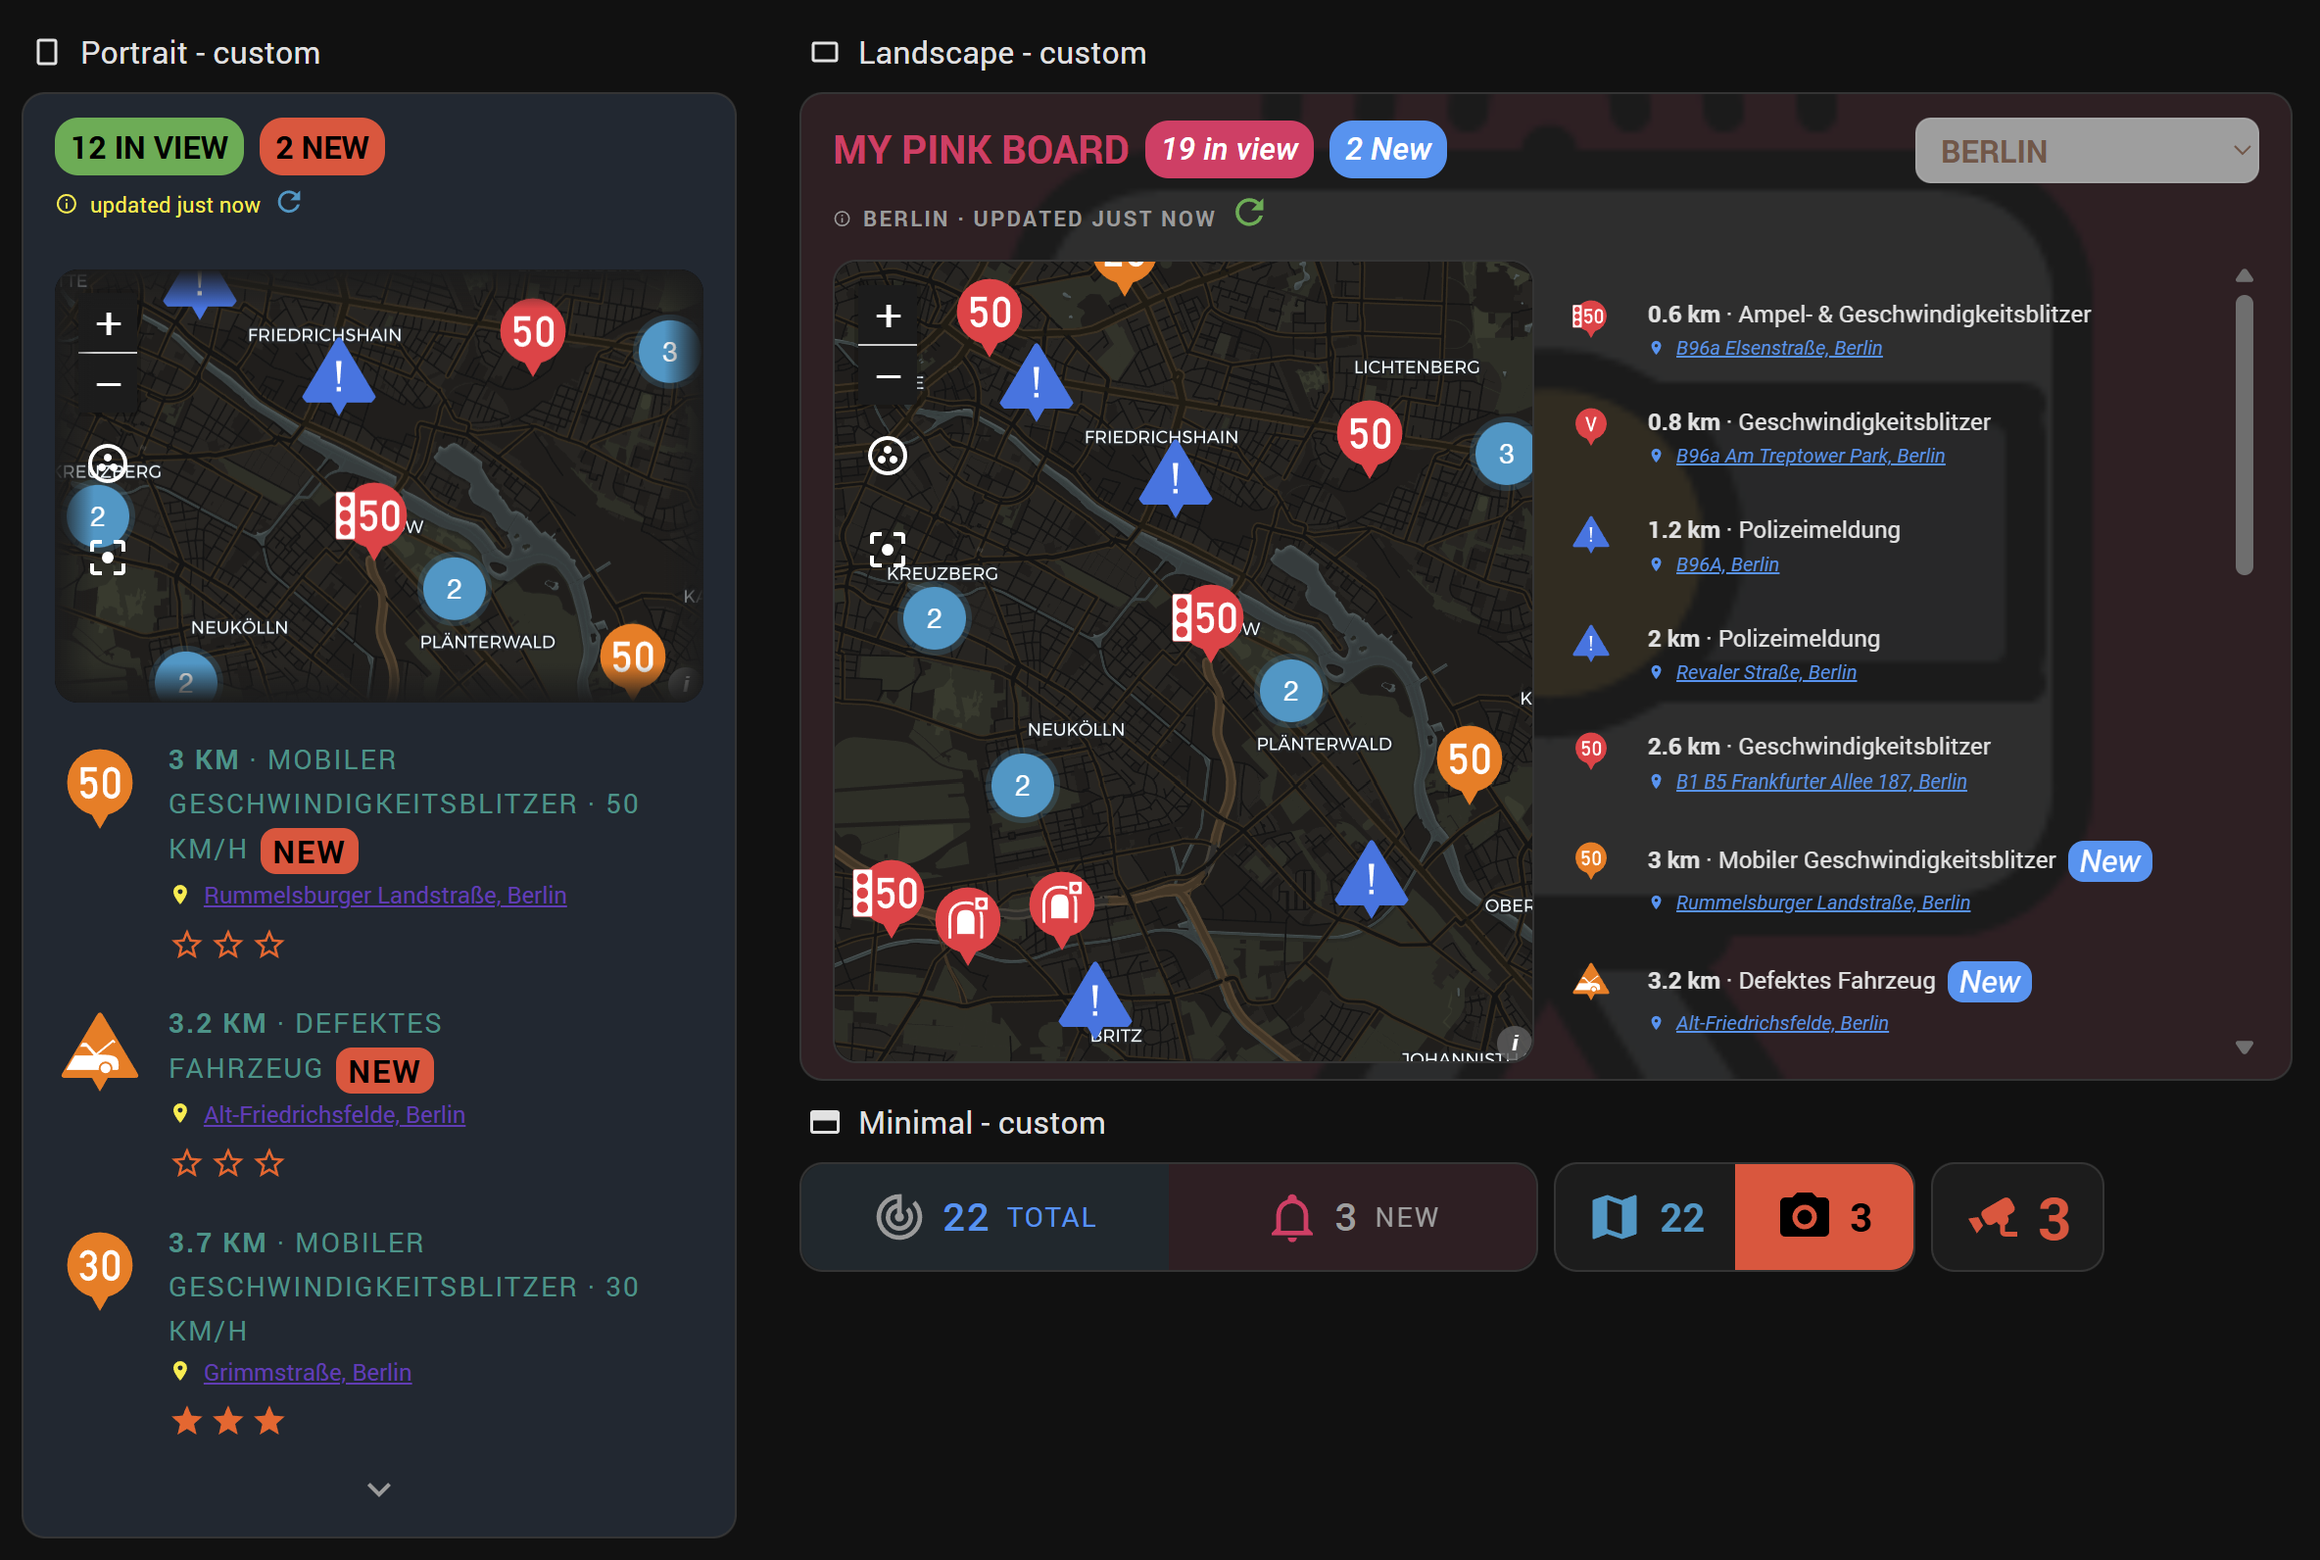
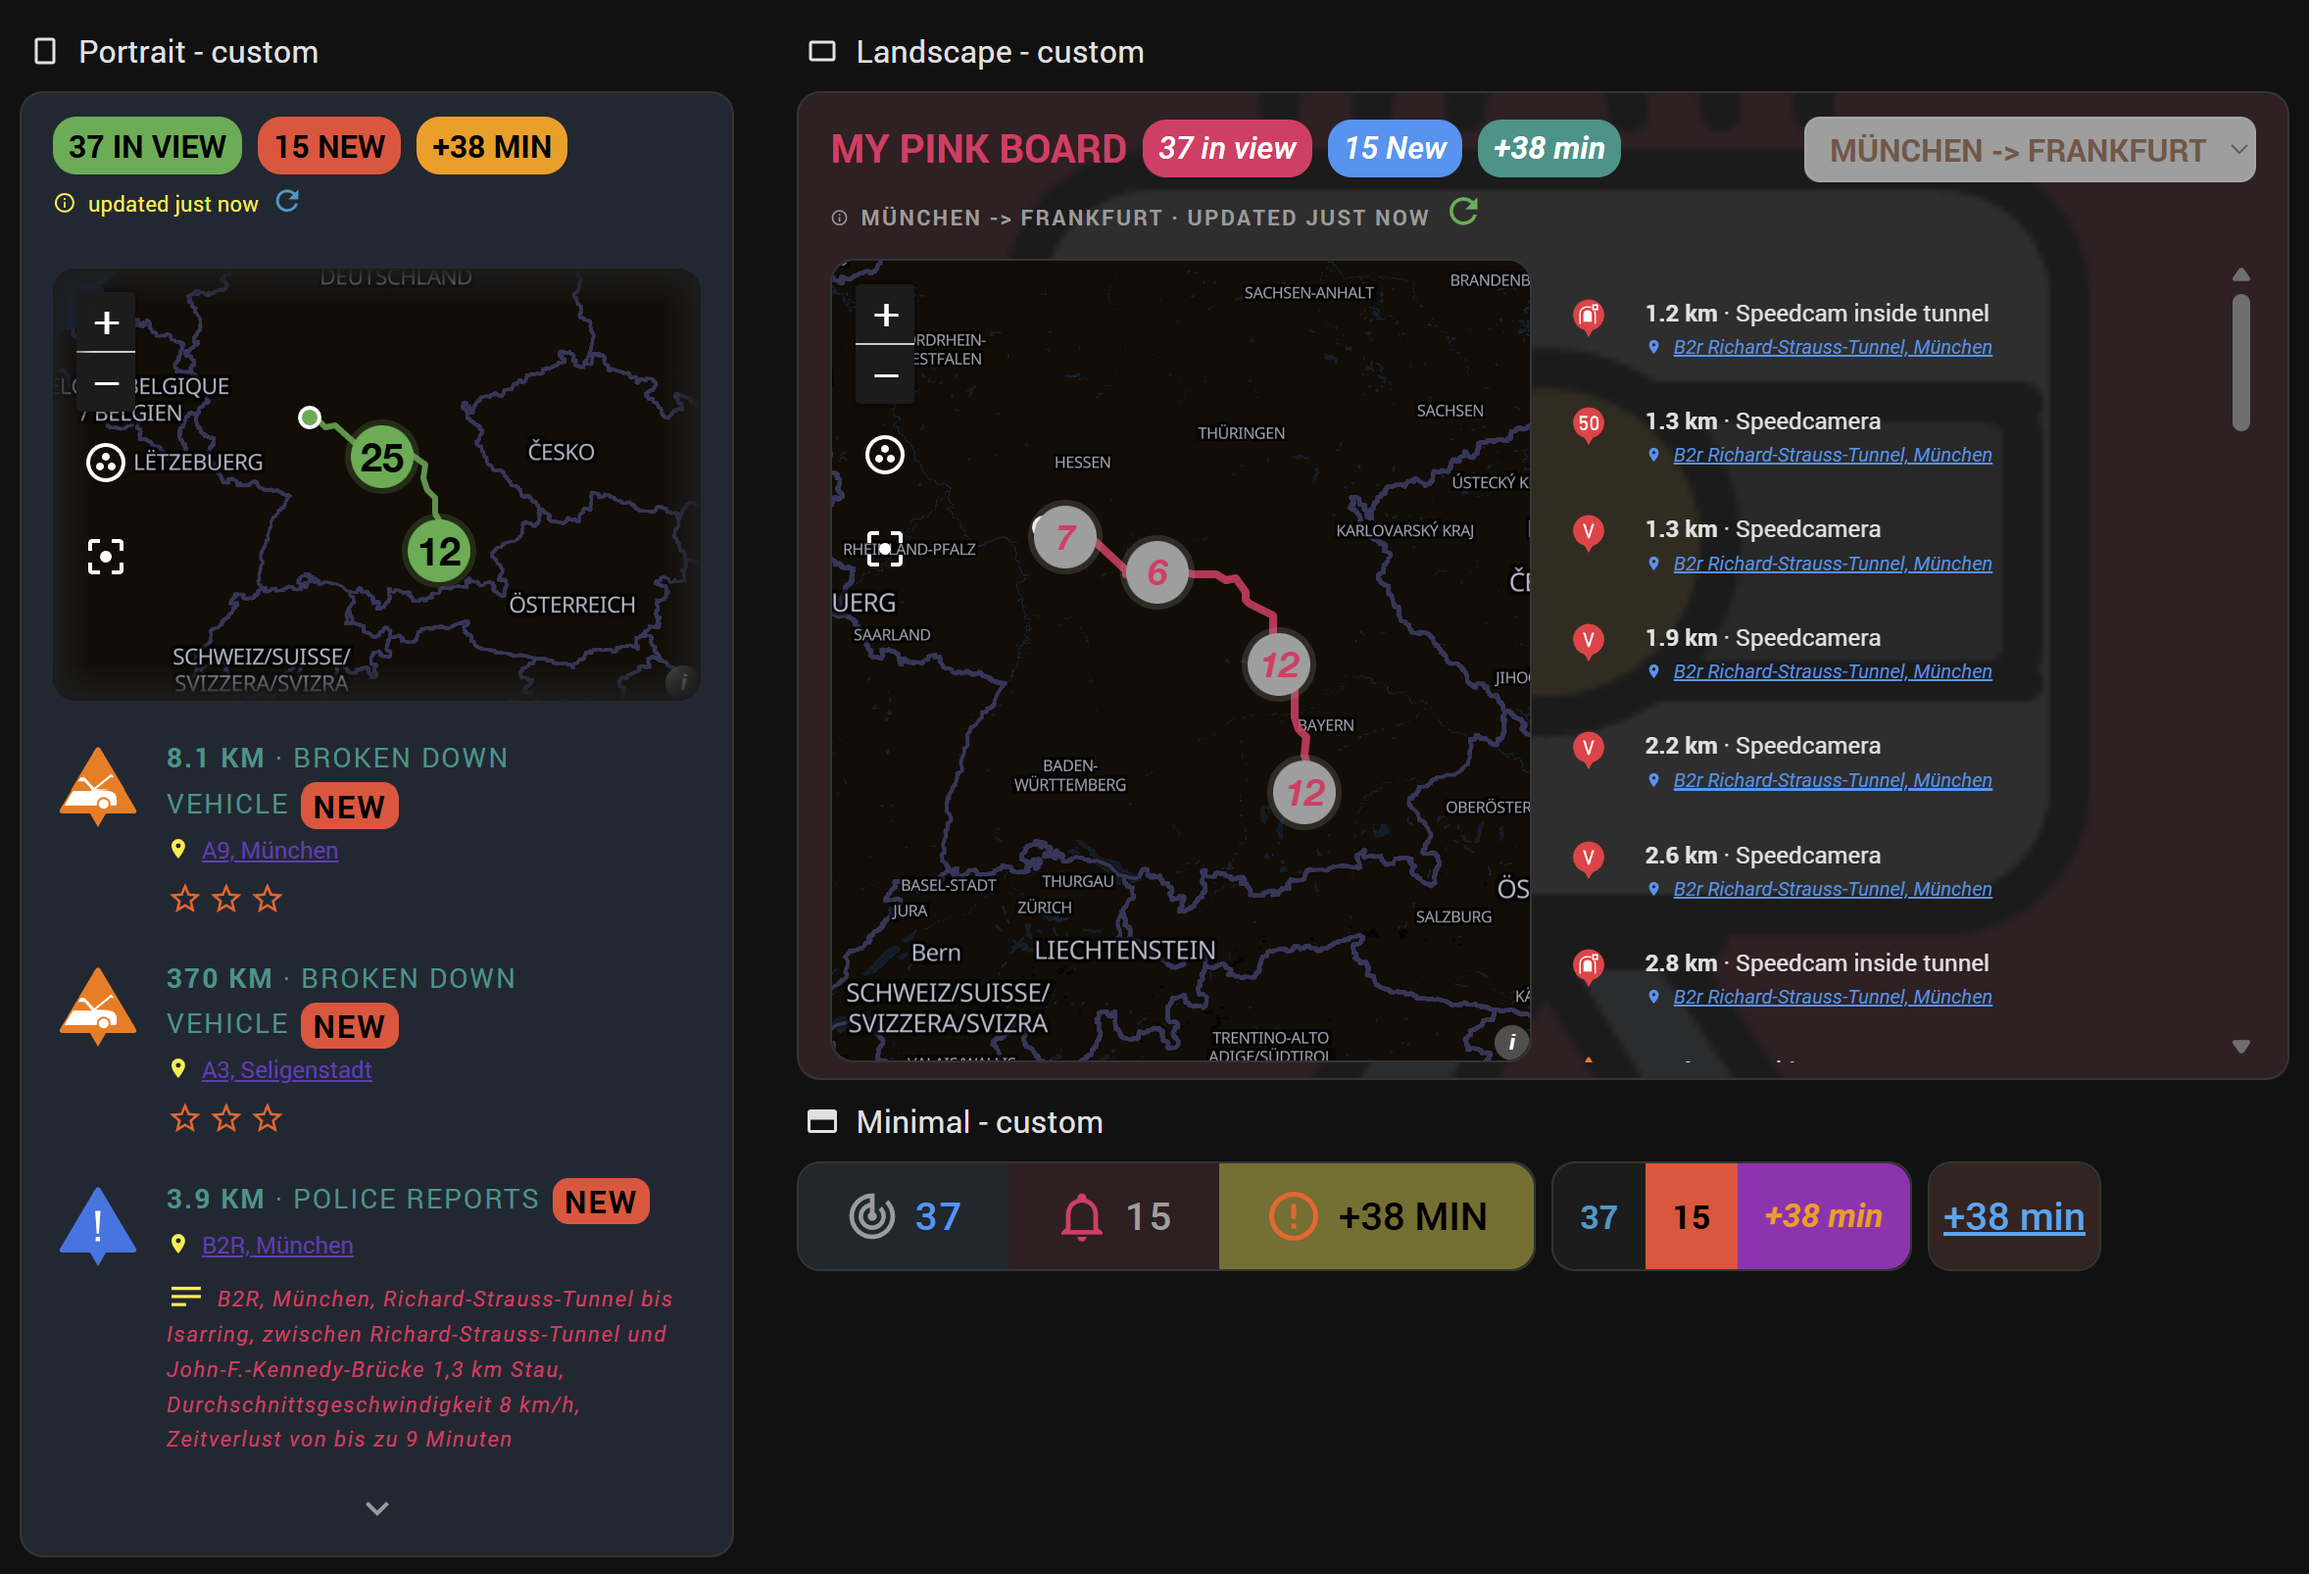
Refresh the restyled-card screenshot
The picture under "Settings" showed a card from before this release. The new
one carries what v3.3.0 added to style: the delay badge, the route line and
the discs the map gathers nearby reports into, and the minimal line with
three parts rather than two. The text beside it says the same thing it did -
all of that was set in the Layout panel, not in CSS - so only the alt text
follows, naming what the picture now shows.

diff --git a/README.md b/README.md
@@ -597,7 +597,7 @@ Two panels, each with three groups:
 
 Every field carries an **i** describing it, so the reference for its roughly 220 settings is the editor itself. The editor writes only what differs from the default, so a card configured entirely in the interface stays short in YAML.
 
-<img src="https://raw.githubusercontent.com/somansch/blitzer/main/docs/blitzer-card-custom.png" alt="The same three formats restyled: coloured badges, a renamed title, a background image, other symbols, underlined addresses, confirmation stars and recoloured counters" width="100%">
+<img src="https://raw.githubusercontent.com/somansch/blitzer/main/docs/blitzer-card-custom.png" alt="The same three formats restyled: coloured badges, a renamed title, a background image, other symbols, underlined addresses, confirmation stars, a recoloured route with the discs its grouped reports sit on, and the minimal line with each of its three parts in a colour of its own" width="100%">
 
 The same card, the same area, the same data - and not a line of CSS. Everything above was set in the **Layout** panel.
 
